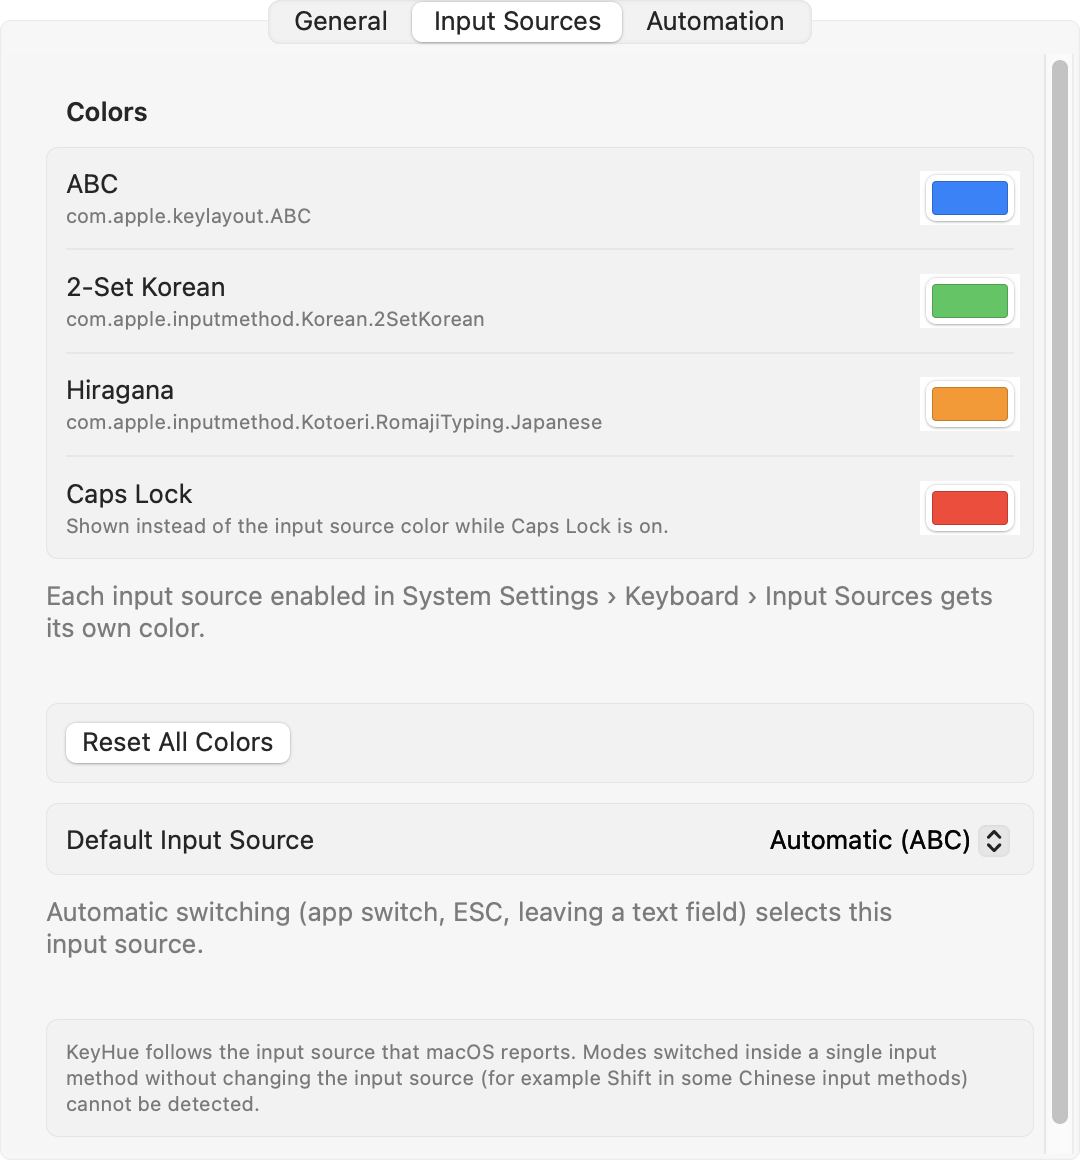
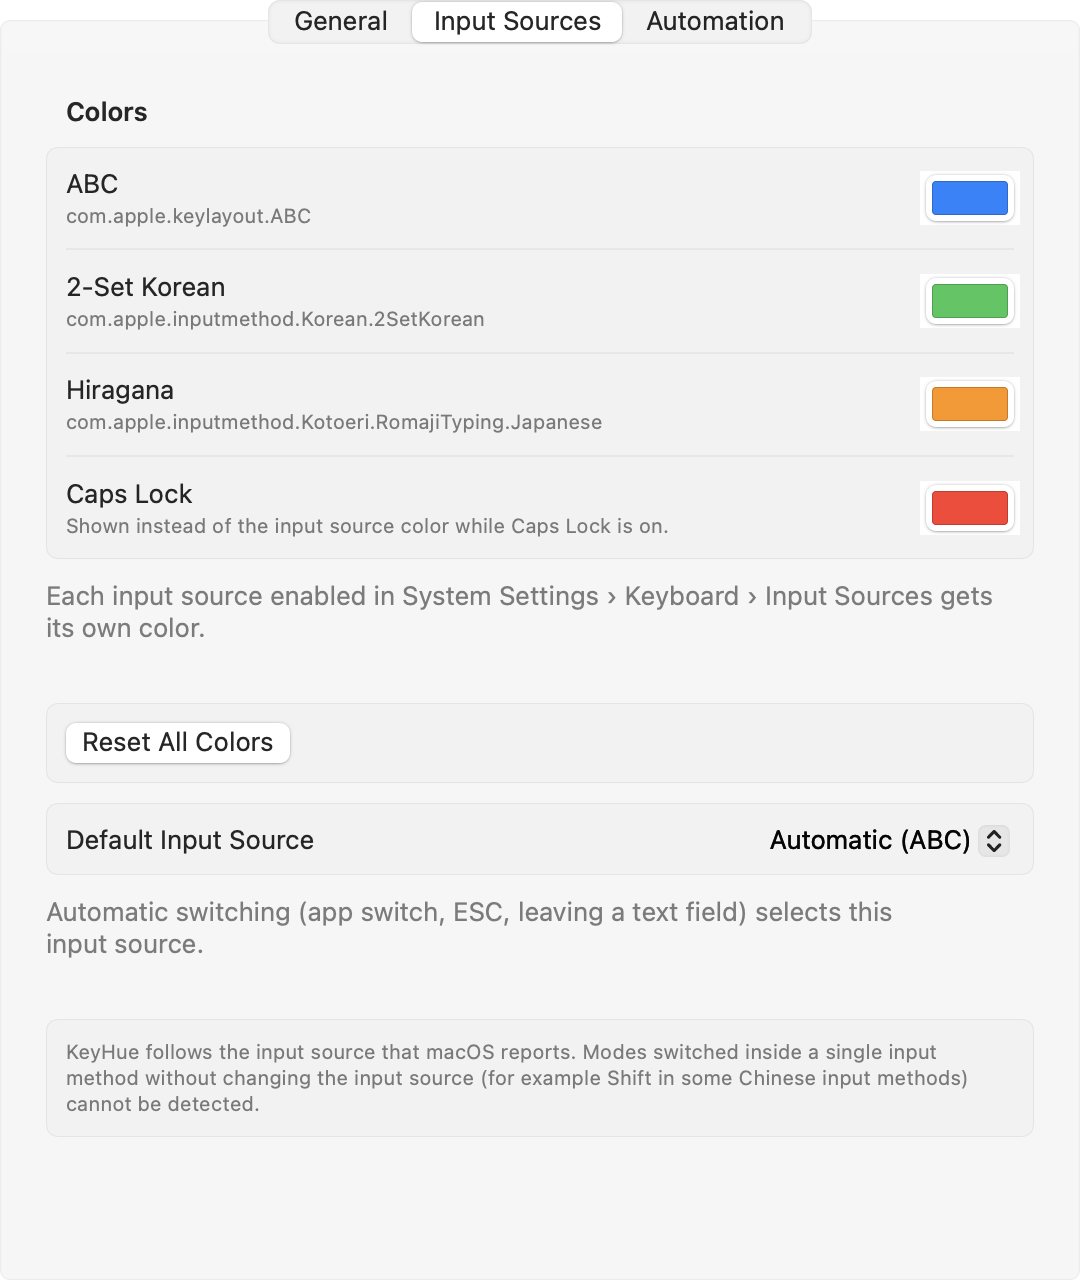
dock 표시기능 추가

diff --git a/site/manual-ko.html b/site/manual-ko.html
@@ -56,7 +56,7 @@
       </ol>
 
       <h2 id="first-launch">처음 실행</h2>
-      <p>KeyHue는 메뉴바에서 동작하고 Dock에는 나타나지 않습니다. 시계 근처의 카멜레온을 찾으세요. 카멜레온도 현재 입력 소스의 색을 띱니다.</p>
+      <p>KeyHue는 두 곳에 나타납니다. Dock의 앱 아이콘과, 메뉴바 시계 근처의 카멜레온입니다. 카멜레온은 현재 입력 소스의 색을 띱니다. Dock 아이콘을 누르거나 KeyHue를 다시 실행하면 설정 창이 열립니다. 메뉴바에만 두고 싶다면 <b>Dock에 표시</b>를 끄세요.</p>
       <p>모든 모니터의 아래쪽 가장자리에 얇은 선이 나타납니다. 평소처럼 입력 소스를 바꿔 보세요(한/A 키, Caps Lock, Control-Space). 선의 색이 바뀝니다.</p>
       <p class="note">한/영 키를 눌렀는데 색이 그대로라면 실제로는 전환되지 않은 것입니다. KeyHue는 macOS가 실제로 선택한 입력 소스만 보여줍니다.</p>
 
@@ -91,6 +91,7 @@
             <tr><th scope="row">텍스트 필드를 벗어나면 ABC(으)로 전환</th><td>실험적 기능. 손쉬운 사용 권한이 필요합니다.</td></tr>
             <tr><th scope="row">설정… (⌘,)</th><td>모든 옵션이 있는 설정 창을 엽니다.</td></tr>
             <tr><th scope="row">로그인 시 실행</th><td>로그인할 때 KeyHue를 시작합니다.</td></tr>
+            <tr><th scope="row">Dock에 표시</th><td>Dock 아이콘을 보이거나 숨깁니다. 끄면 메뉴바에만 있습니다.</td></tr>
           </tbody>
         </table>
       </div>
@@ -102,11 +103,12 @@
       <h3>일반</h3>
       <figure>
         <div class="window"><div class="titlebar"><i></i><i></i><i></i><span>KeyHue 설정</span></div>
-          <img src="assets/screens/ko/settings-general.png" alt="일반 탭: 언어, 상태 바 옵션, 표시, 로그인 시 실행" width="1080" height="1160" loading="lazy"></div>
+          <img src="assets/screens/ko/settings-general.png" alt="일반 탭: 언어, 상태 바 옵션, 표시, 로그인 시 실행" width="1080" height="1280" loading="lazy"></div>
         <figcaption>언어, 색 선, 메뉴바 아이콘, HUD, 로그인 시 실행.</figcaption>
       </figure>
       <ul>
         <li><b>언어</b>는 재시작 없이 바로 KeyHue의 언어를 바꿉니다. <b>시스템 기본값</b>은 macOS 언어를 따릅니다. 입력 소스 이름은 macOS가 그 언어로 보여줍니다.</li>
+        <li><b>Dock에 표시</b>: 끄면 KeyHue가 메뉴바에만 있습니다. 설정은 카멜레온 메뉴에서 열 수 있습니다.</li>
         <li><b>바 위치</b>: 기본은 하단입니다. 상단이 더 눈에 띄지만 메뉴바 가장자리를 가립니다.</li>
         <li><b>바 두께</b>와 <b>바 불투명도</b>는 함께 쓰면 좋습니다. 예를 들어 두꺼운 선을 60% 불투명도로.</li>
       </ul>
@@ -114,7 +116,7 @@
       <h3>입력 소스</h3>
       <figure>
         <div class="window"><div class="titlebar"><i></i><i></i><i></i><span>KeyHue 설정</span></div>
-          <img src="assets/screens/ko/settings-sources.png" alt="입력 소스 탭: 입력 소스별 색, Caps Lock 색, 기본 입력 소스" width="1080" height="1160" loading="lazy"></div>
+          <img src="assets/screens/ko/settings-sources.png" alt="입력 소스 탭: 입력 소스별 색, Caps Lock 색, 기본 입력 소스" width="1080" height="1280" loading="lazy"></div>
         <figcaption>켜진 입력 소스마다 한 줄씩 나옵니다. 색을 눌러 바꿉니다.</figcaption>
       </figure>
       <ul>
@@ -126,7 +128,7 @@
       <h3>자동 전환</h3>
       <figure>
         <div class="window"><div class="titlebar"><i></i><i></i><i></i><span>KeyHue 설정</span></div>
-          <img src="assets/screens/ko/settings-automation.png" alt="자동 전환 탭: 앱 전환 시, ESC, 앱별 기억, 실험적 텍스트 필드 옵션" width="1080" height="1160" loading="lazy"></div>
+          <img src="assets/screens/ko/settings-automation.png" alt="자동 전환 탭: 앱 전환 시, ESC, 앱별 기억, 실험적 텍스트 필드 옵션" width="1080" height="1280" loading="lazy"></div>
         <figcaption>자동 전환은 직접 켜기 전까지 모두 꺼져 있습니다.</figcaption>
       </figure>
 

diff --git a/site/manual.html b/site/manual.html
@@ -56,7 +56,7 @@
       </ol>
 
       <h2 id="first-launch">First launch</h2>
-      <p>KeyHue lives in the menu bar and has no Dock icon. Look for the chameleon near the clock. It takes the color of the current input source.</p>
+      <p>KeyHue appears in two places: an icon in the Dock, and a chameleon in the menu bar near the clock. The chameleon takes the color of the current input source. Click the Dock icon (or open KeyHue again) to show the settings window. If you'd rather keep KeyHue only in the menu bar, turn off <b>Show in Dock</b>.</p>
       <p>A thin line appears along the bottom of every display. Switch input sources the way you usually do (Caps Lock, Control-Space or the 한/A key) and watch the line change color.</p>
       <p class="note">If you pressed the switch key and the color didn't change, the switch didn't happen. That's the point: KeyHue only shows what macOS actually selected.</p>
 
@@ -91,6 +91,7 @@
             <tr><th scope="row">Switch to ABC When Leaving Text Field</th><td>Experimental. Needs Accessibility.</td></tr>
             <tr><th scope="row">Settings… (⌘,)</th><td>Opens the settings window with every option.</td></tr>
             <tr><th scope="row">Launch at Login</th><td>Starts KeyHue when you log in.</td></tr>
+            <tr><th scope="row">Show in Dock</th><td>Shows or hides KeyHue's Dock icon. Off keeps it only in the menu bar.</td></tr>
           </tbody>
         </table>
       </div>
@@ -102,11 +103,12 @@
       <h3>General</h3>
       <figure>
         <div class="window"><div class="titlebar"><i></i><i></i><i></i><span>KeyHue Settings</span></div>
-          <img src="assets/screens/en/settings-general.png" alt="General tab: Language, State Bar options, Indicators and Launch at Login" width="1080" height="1160" loading="lazy"></div>
+          <img src="assets/screens/en/settings-general.png" alt="General tab: Language, State Bar options, Indicators and Launch at Login" width="1080" height="1280" loading="lazy"></div>
         <figcaption>Language, the colored line, the menu bar icon, the HUD and Launch at Login.</figcaption>
       </figure>
       <ul>
         <li><b>Language</b> changes KeyHue's own language right away, without restarting. <b>System Default</b> follows macOS. Input source names still come from macOS in its language.</li>
+        <li><b>Show in Dock</b>: turn off to keep KeyHue only in the menu bar. You can still open settings from the chameleon.</li>
         <li><b>Bar Position</b>: bottom is the default. Top is easier to notice but covers the edge of the menu bar.</li>
         <li><b>Bar Thickness</b> and <b>Bar Opacity</b> work well together, for example a thick line at 60% opacity.</li>
       </ul>
@@ -114,7 +116,7 @@
       <h3>Input Sources</h3>
       <figure>
         <div class="window"><div class="titlebar"><i></i><i></i><i></i><span>KeyHue Settings</span></div>
-          <img src="assets/screens/en/settings-sources.png" alt="Input Sources tab: a color for each input source, Caps Lock color and Default Input Source" width="1080" height="1160" loading="lazy"></div>
+          <img src="assets/screens/en/settings-sources.png" alt="Input Sources tab: a color for each input source, Caps Lock color and Default Input Source" width="1080" height="1280" loading="lazy"></div>
         <figcaption>One row per enabled input source. Click a color to change it.</figcaption>
       </figure>
       <ul>
@@ -126,7 +128,7 @@
       <h3>Automation</h3>
       <figure>
         <div class="window"><div class="titlebar"><i></i><i></i><i></i><span>KeyHue Settings</span></div>
-          <img src="assets/screens/en/settings-automation.png" alt="Automation tab: switch on app switch, on ESC, remember input per app, and the experimental text field option" width="1080" height="1160" loading="lazy"></div>
+          <img src="assets/screens/en/settings-automation.png" alt="Automation tab: switch on app switch, on ESC, remember input per app, and the experimental text field option" width="1080" height="1280" loading="lazy"></div>
         <figcaption>All automatic switching is off until you turn it on.</figcaption>
       </figure>
 

diff --git a/Sources/KeyHue/AppDelegate.swift b/Sources/KeyHue/AppDelegate.swift
@@ -32,10 +32,14 @@ final class AppDelegate: NSObject, NSApplicationDelegate {
 
     private var settings: KeyHueSettings { settingsStore.settings }
 
+    func applicationWillFinishLaunching(_ notification: Notification) {
+        // UI를 만들기 전에 앱 언어와 Dock 표시 여부를 적용한다.
+        Localization.apply(settings.appLanguage)
+        applyDockIconPolicy()
+    }
+
     func applicationDidFinishLaunching(_ notification: Notification) {
         guard !terminateIfAlreadyRunning() else { return }
-        // UI를 만들기 전에 앱 언어를 적용한다.
-        Localization.apply(settings.appLanguage)
 
         stateStore.addObserver { [weak self] old, new in self?.inputChanged(from: old, to: new) }
         settingsStore.addObserver { [weak self] old, new in self?.settingsChanged(from: old, to: new) }
@@ -72,6 +76,7 @@ final class AppDelegate: NSObject, NSApplicationDelegate {
 
         statusBar = StatusBarController(settingsStore: settingsStore, stateStore: stateStore, actions: self)
         settingsWindow = SettingsWindowController(model: SettingsModel(store: settingsStore, actions: self))
+        installMainMenu()
 
         updateActiveScreen()
         overlay.apply(state: stateStore.state, settings: settings)
@@ -112,7 +117,11 @@ final class AppDelegate: NSObject, NSApplicationDelegate {
             // 재시작 없이 바로 적용: 메뉴는 다시 만들고, 설정 창(SwiftUI)은 settings 변경으로 다시 그려진다.
             Localization.apply(new.appLanguage)
             statusBar?.buildMenu()
+            installMainMenu()
             settingsWindow?.updateTitle()
+        }
+        if old.showDockIcon != new.showDockIcon {
+            applyDockIconPolicy()
         }
         if old.displayPolicy != new.displayPolicy || old.showHUD != new.showHUD {
             updateActiveScreen()
@@ -212,6 +221,33 @@ final class AppDelegate: NSObject, NSApplicationDelegate {
         } else {
             textFocusMonitor.detach()
         }
+    }
+
+    /// Dock 아이콘 클릭, Finder/Launchpad에서 다시 실행 → 설정 창을 연다.
+    func applicationShouldHandleReopen(_ sender: NSApplication, hasVisibleWindows flag: Bool) -> Bool {
+        showSettings()
+        return false
+    }
+
+    /// Dock 표시(regular) ↔ 메뉴바 전용(accessory). 재시작 없이 바로 바뀐다.
+    private func applyDockIconPolicy() {
+        let policy: NSApplication.ActivationPolicy = settings.showDockIcon ? .regular : .accessory
+        guard NSApp.activationPolicy() != policy else { return }
+        NSApp.setActivationPolicy(policy)
+        // accessory로 바뀌면 앱이 비활성화되어 열려 있던 설정 창이 뒤로 숨는다.
+        if NSApp.windows.contains(where: { $0.isVisible && $0.canBecomeKey }) {
+            NSApp.activate(ignoringOtherApps: true)
+        }
+    }
+
+    /// Dock에 보일 때 화면 상단에 나오는 앱 메뉴.
+    private func installMainMenu() {
+        guard let statusBar else { return }
+        NSApp.mainMenu = MainMenu.make(
+            target: statusBar,
+            showSettings: #selector(StatusBarController.showSettings),
+            showAbout: #selector(StatusBarController.showAbout)
+        )
     }
 
     private func terminateIfAlreadyRunning() -> Bool {

diff --git a/Sources/KeyHue/UI/StatusBarController.swift b/Sources/KeyHue/UI/StatusBarController.swift
@@ -66,6 +66,7 @@ final class StatusBarController: NSObject, NSMenuDelegate {
     private let textFocusPermissionItem = NSMenuItem(title: "", action: #selector(openAccessibility), keyEquivalent: "")
     private let tintIconItem = NSMenuItem(title: "", action: #selector(toggleTintIcon), keyEquivalent: "")
     private let launchAtLoginItem = NSMenuItem(title: "", action: #selector(toggleLaunchAtLogin), keyEquivalent: "")
+    private let dockIconItem = NSMenuItem(title: "", action: #selector(toggleDockIcon), keyEquivalent: "")
 
     /// Custom… 색상 편집 대상.
     private var editingColorTarget: ColorTarget?
@@ -151,6 +152,8 @@ final class StatusBarController: NSObject, NSMenuDelegate {
         menu.addItem(settings)
         launchAtLoginItem.target = self
         menu.addItem(launchAtLoginItem)
+        dockIconItem.target = self
+        menu.addItem(dockIconItem)
         let about = NSMenuItem(title: L("About KeyHue"), action: #selector(showAbout), keyEquivalent: "")
         about.target = self
         menu.addItem(about)
@@ -179,6 +182,7 @@ final class StatusBarController: NSObject, NSMenuDelegate {
         textFocusPermissionItem.title = L("Grant Accessibility Access…")
         tintIconItem.title = L("Tint Menu Bar Icon")
         launchAtLoginItem.title = L("Launch at Login")
+        dockIconItem.title = L("Show in Dock")
     }
 
     private func makeChoiceMenu(_ choices: [(String, Any)], action: Selector) -> NSMenu {
@@ -298,6 +302,7 @@ final class StatusBarController: NSObject, NSMenuDelegate {
         textFocusPermissionItem.isHidden = textFocusStatus != .needsPermission
 
         launchAtLoginItem.state = (actions?.isLaunchAtLoginEnabled ?? false) ? .on : .off
+        dockIconItem.state = settings.showDockIcon ? .on : .off
     }
 
     private static func check(_ item: NSMenuItem, isSelected: (Any?) -> Bool) {
@@ -461,17 +466,21 @@ final class StatusBarController: NSObject, NSMenuDelegate {
         actions?.openAccessibilitySettings()
     }
 
+    @objc private func toggleDockIcon() {
+        settingsStore.update { $0.showDockIcon.toggle() }
+    }
+
     @objc private func toggleLaunchAtLogin() {
         actions?.setLaunchAtLogin(!(actions?.isLaunchAtLoginEnabled ?? false))
     }
 
-    @objc private func showSettings() {
+    @objc func showSettings() {
         actions?.showSettings()
     }
 
     static let repositoryURL = URL(string: "https://github.com/sejoung/KeyHue")!
 
-    @objc private func showAbout() {
+    @objc func showAbout() {
         let paragraph = NSMutableParagraphStyle()
         paragraph.alignment = .center
         let font = NSFont.systemFont(ofSize: NSFont.smallSystemFontSize)

diff --git a/Sources/KeyHue/UI/MainMenu.swift b/Sources/KeyHue/UI/MainMenu.swift
@@ -1,0 +1,51 @@
+import AppKit
+
+/// Dock에 보이는 일반 앱일 때 화면 상단에 나타나는 앱 메뉴(KeyHue / 편집 / 윈도우).
+/// 메뉴바 아이콘의 메뉴(StatusBarController)와 별개다. 언어를 바꾸면 다시 만든다.
+@MainActor
+enum MainMenu {
+    static func make(target: AnyObject, showSettings: Selector, showAbout: Selector) -> NSMenu {
+        let main = NSMenu()
+
+        let app = NSMenu(title: "KeyHue")
+        app.addItem(item(L("About KeyHue"), showAbout, target: target))
+        app.addItem(.separator())
+        app.addItem(item(L("Settings…"), showSettings, key: ",", target: target))
+        app.addItem(.separator())
+        app.addItem(item(L("Hide KeyHue"), #selector(NSApplication.hide(_:)), key: "h"))
+        let hideOthers = item(L("Hide Others"), #selector(NSApplication.hideOtherApplications(_:)), key: "h")
+        hideOthers.keyEquivalentModifierMask = [.command, .option]
+        app.addItem(hideOthers)
+        app.addItem(item(L("Show All"), #selector(NSApplication.unhideAllApplications(_:))))
+        app.addItem(.separator())
+        app.addItem(item(L("Quit KeyHue"), #selector(NSApplication.terminate(_:)), key: "q"))
+        main.addItem(submenu(app))
+
+        let edit = NSMenu(title: L("Edit"))
+        edit.addItem(item(L("Cut"), #selector(NSText.cut(_:)), key: "x"))
+        edit.addItem(item(L("Copy"), #selector(NSText.copy(_:)), key: "c"))
+        edit.addItem(item(L("Paste"), #selector(NSText.paste(_:)), key: "v"))
+        edit.addItem(item(L("Select All"), #selector(NSText.selectAll(_:)), key: "a"))
+        main.addItem(submenu(edit))
+
+        let window = NSMenu(title: L("Window"))
+        window.addItem(item(L("Minimize"), #selector(NSWindow.performMiniaturize(_:)), key: "m"))
+        window.addItem(item(L("Close"), #selector(NSWindow.performClose(_:)), key: "w"))
+        main.addItem(submenu(window))
+        NSApp.windowsMenu = window
+
+        return main
+    }
+
+    private static func item(_ title: String, _ action: Selector, key: String = "", target: AnyObject? = nil) -> NSMenuItem {
+        let item = NSMenuItem(title: title, action: action, keyEquivalent: key)
+        item.target = target
+        return item
+    }
+
+    private static func submenu(_ menu: NSMenu) -> NSMenuItem {
+        let item = NSMenuItem(title: menu.title, action: nil, keyEquivalent: "")
+        item.submenu = menu
+        return item
+    }
+}

diff --git a/Sources/KeyHueCore/SettingsStore.swift b/Sources/KeyHueCore/SettingsStore.swift
@@ -8,6 +8,7 @@ import Foundation
 public final class SettingsStore {
     enum Key {
         static let appLanguage = "appLanguage"
+        static let showDockIcon = "showDockIcon"
         static let showStateBar = "showStateBar"
         static let barHeight = "barHeight"
         static let barPosition = "barPosition"
@@ -70,6 +71,7 @@ public final class SettingsStore {
             defaults.string(forKey: key).flatMap(RGBAColor.init(hex:)) ?? fallback
         }
         s.appLanguage = defaults.string(forKey: Key.appLanguage).flatMap(AppLanguage.init(rawValue:)) ?? s.appLanguage
+        s.showDockIcon = bool(Key.showDockIcon, s.showDockIcon)
         s.showStateBar = bool(Key.showStateBar, s.showStateBar)
         s.barHeight = KeyHueSettings.clampedBarHeight(double(Key.barHeight, s.barHeight))
         s.barPosition = defaults.string(forKey: Key.barPosition).flatMap(BarPosition.init(rawValue:)) ?? s.barPosition
@@ -92,6 +94,7 @@ public final class SettingsStore {
     private func save(_ s: KeyHueSettings) {
         let d = KeyHueSettings()
         store(Key.appLanguage, s.appLanguage, d.appLanguage) { $0.rawValue }
+        store(Key.showDockIcon, s.showDockIcon, d.showDockIcon)
         store(Key.showStateBar, s.showStateBar, d.showStateBar)
         store(Key.barHeight, s.barHeight, d.barHeight)
         store(Key.barPosition, s.barPosition, d.barPosition) { $0.rawValue }

diff --git a/site/ko.html b/site/ko.html
@@ -77,7 +77,7 @@
             <li>macOS 15 Sequoia 이상: KeyHue를 한 번 연 뒤 <b>시스템 설정 › 개인정보 보호 및 보안</b>에서 <b>그래도 열기</b>를 누릅니다.</li>
             <li>macOS 13–14: KeyHue.app을 Control-클릭하고 <b>열기</b>를 고른 뒤, 한 번 더 <b>열기</b>를 누릅니다.</li>
           </ul></div></li>
-        <li><div><b>메뉴바에서 카멜레온 찾기</b><p>KeyHue는 Dock에 나타나지 않습니다. 카멜레온을 누르고 <b>설정…</b>에서 색과 자동 전환을 고르세요. 모든 옵션은 <a href="manual-ko.html">사용 설명서</a>에 있습니다.</p></div></li>
+        <li><div><b>설정 열기</b><p>Dock의 KeyHue를 누르거나, 메뉴바의 카멜레온을 누르고 <b>설정…</b>을 골라 색과 자동 전환을 정하세요. 모든 옵션은 <a href="manual-ko.html">사용 설명서</a>에 있습니다.</p></div></li>
       </ol>
     </section>
 

diff --git a/site/index.html b/site/index.html
@@ -77,7 +77,7 @@
             <li>macOS 15 Sequoia or later: open KeyHue once, then go to <b>System Settings › Privacy &amp; Security</b> and click <b>Open Anyway</b>.</li>
             <li>macOS 13–14: Control-click KeyHue.app, choose <b>Open</b>, then <b>Open</b> again.</li>
           </ul></div></li>
-        <li><div><b>Find the chameleon in the menu bar</b><p>KeyHue has no Dock icon. Click the chameleon and choose <b>Settings…</b> to pick colors and automatic switching. The <a href="manual.html">manual</a> walks through every option.</p></div></li>
+        <li><div><b>Open Settings</b><p>Click KeyHue in the Dock, or the chameleon in the menu bar and choose <b>Settings…</b>, to pick colors and automatic switching. The <a href="manual.html">manual</a> walks through every option.</p></div></li>
       </ol>
     </section>
 

diff --git a/Sources/KeyHue/main.swift b/Sources/KeyHue/main.swift
@@ -1,14 +1,15 @@
 import AppKit
 
 let app = NSApplication.shared
-// Info.plist의 LSUIElement와 동일. `swift run`처럼 번들 없이 실행해도 Dock에 나타나지 않게 한다.
-app.setActivationPolicy(.accessory)
 
-// 매뉴얼용 스크린샷 모드(scripts/screenshots.sh). 앱을 띄우지 않고 이미지만 만들고 끝낸다.
-if DocScreenshots.runIfRequested() {
+// 매뉴얼용 스크린샷 모드(scripts/screenshots.sh). Dock에 나타나지 않게 하고 이미지만 만든 뒤 끝낸다.
+if CommandLine.arguments.contains(DocScreenshots.flag) {
+    app.setActivationPolicy(.accessory)
+    _ = DocScreenshots.runIfRequested()
     exit(0)
 }
 
+// Dock 표시 여부(설정)는 AppDelegate.applicationWillFinishLaunching에서 적용한다.
 let delegate = AppDelegate()
 app.delegate = delegate
 app.run()

diff --git a/Sources/KeyHue/UI/SettingsWindow.swift b/Sources/KeyHue/UI/SettingsWindow.swift
@@ -174,7 +174,7 @@ struct SettingsView: View {
     @ObservedObject var model: SettingsModel
     @State var tab: SettingsTab = .general
 
-    static let size = CGSize(width: 540, height: 580)
+    static let size = CGSize(width: 540, height: 640)
 
     var body: some View {
         TabView(selection: $tab) {
@@ -235,6 +235,7 @@ private struct GeneralSettingsView: View {
             }
 
             Section(L("Indicators")) {
+                Toggle(L("Show in Dock"), isOn: model.binding(\.showDockIcon))
                 Toggle(L("Tint Menu Bar Icon"), isOn: model.binding(\.tintMenuBarIcon))
                 Toggle(L("Show HUD on Change"), isOn: model.binding(\.showHUD))
             }

diff --git a/Tests/KeyHueCoreTests/SettingsTests.swift b/Tests/KeyHueCoreTests/SettingsTests.swift
@@ -54,6 +54,13 @@ struct SettingsStoreTests {
         #expect(settings.sourceColors.isEmpty)
         #expect(settings.defaultSourceID == nil)
         #expect(settings.appLanguage == .system)
+        #expect(settings.showDockIcon)
+    }
+
+    @Test func persistsDockIconChoice() {
+        let defaults = makeDefaults()
+        SettingsStore(defaults: defaults).update { $0.showDockIcon = false }
+        #expect(!SettingsStore(defaults: defaults).settings.showDockIcon)
     }
 
     @Test func persistsAppLanguage() {

diff --git a/Sources/KeyHueCore/KeyHueSettings.swift b/Sources/KeyHueCore/KeyHueSettings.swift
@@ -47,6 +47,8 @@ public struct KeyHueSettings: Sendable, Equatable {
 
     // 일반
     public var appLanguage = AppLanguage.system
+    /// Dock 아이콘 표시. 끄면 메뉴바에만 있는 앱(accessory)이 된다. ADR 0020.
+    public var showDockIcon = true
 
     // State Bar
     public var showStateBar = true
